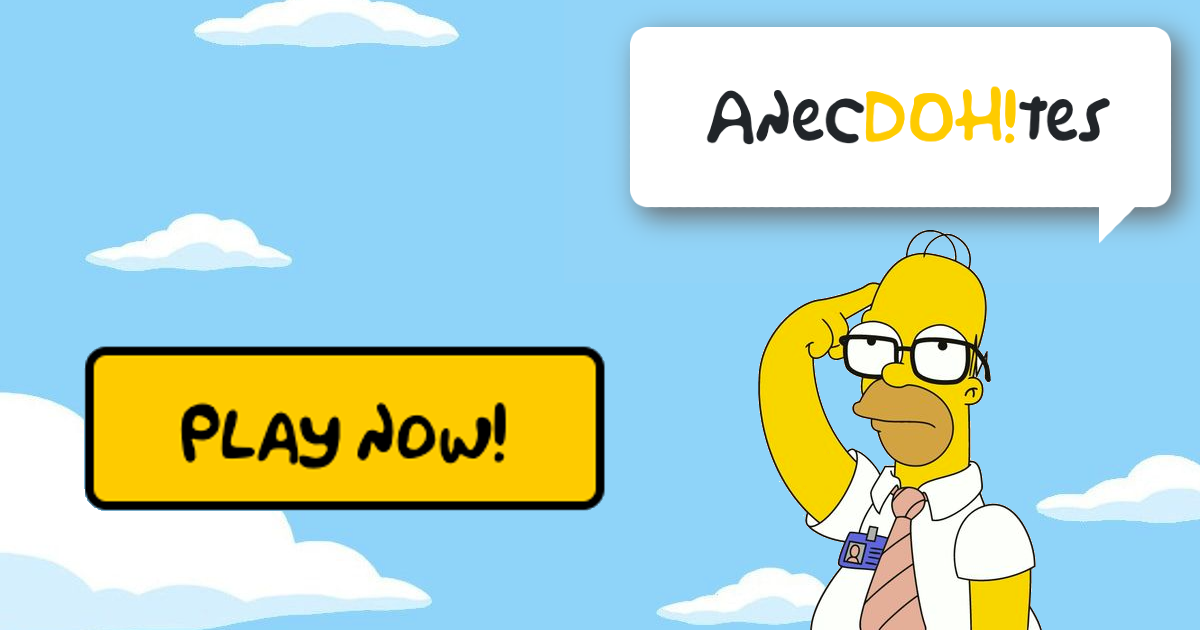
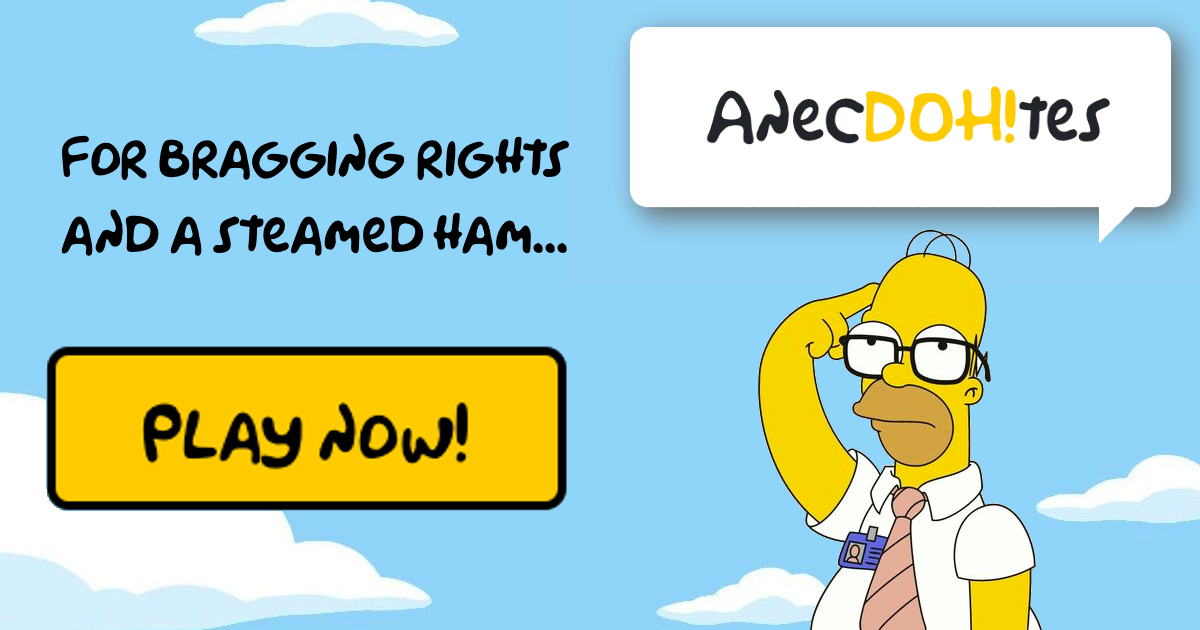
Update preview text and image

diff --git a/src/app/layout.js b/src/app/layout.js
@@ -1,6 +1,6 @@
 export const metadata = {
   title: "AnecDOH!tes",
-  description: "Simpsons quote game",
+  description: "Simpsons daily quote game. Compete against your friends.",
 };
 
 export default function RootLayout({ children }) {
@@ -10,14 +10,14 @@ export default function RootLayout({ children }) {
         <meta property="og:url" content="https://www.anecdohtes.com" />
         <meta property="og:type" content="website" />
         <meta property="og:title" content="AnecDOH!tes" />
-        <meta property="og:description" content="Simpsons quote game" />
+        <meta property="og:description" content="Simpsons daily quote game. Compete against your friends." />
         <meta property="og:image" content="https://www.anecdohtes.com/assets/opengraph.png" />
 
         <meta name="twitter:card" content="summary_large_image" />
         <meta property="twitter:domain" content="anecdohtes.com" />
         <meta property="twitter:url" content="https://www.anecdohtes.com" />
         <meta name="twitter:title" content="AnecDOH!tes" />
-        <meta name="twitter:description" content="Simpsons quote game" />
+        <meta name="twitter:description" content="Simpsons daily quote game. Compete against your friends." />
         <meta name="twitter:image" content="https://www.anecdohtes.com/assets/opengraph.png" />
       </head>
       <body>{children}</body>
